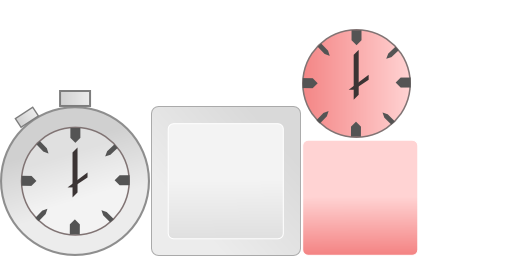
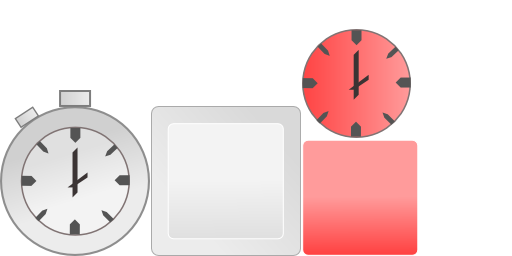
GUI Update

Changed region(s): [[0.5938, 0.125, 0.8125, 1.0]]

diff --git a/Unity3D/Assets/Scripts/Managers/GameManager.cs b/Unity3D/Assets/Scripts/Managers/GameManager.cs
@@ -85,6 +85,7 @@ public class GameManager : MonoBehaviour {
 	public virtual void FixedUpdate () {
 		if (hasGameTimer && !GameManager.paused) {
 			this.timer += Time.deltaTime;
+			On_TimerChange(1f - (timer / globalTime));
 			if (this.timer >= globalTime) {
 				End();
 			}
